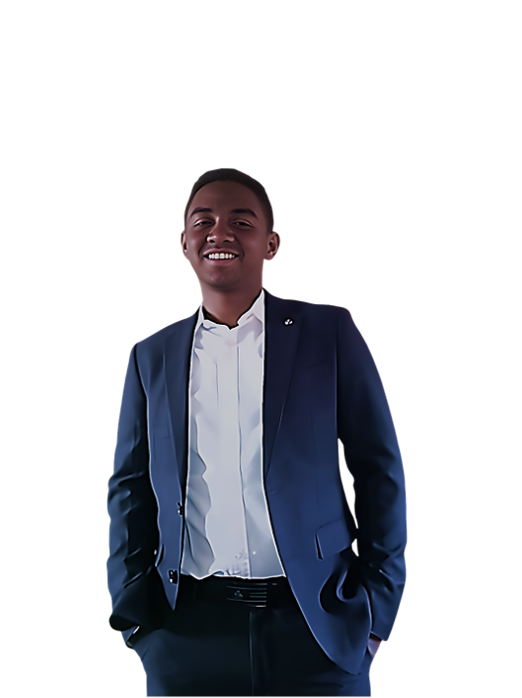
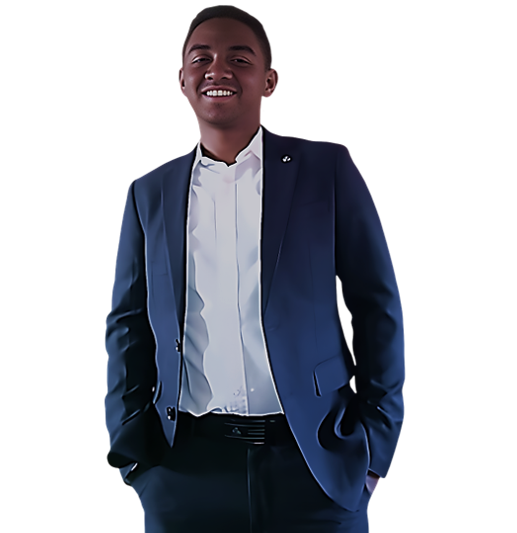
fix: make hero image and container responsive

Changed region(s): [[0.1857, 0.0, 0.8046, 1.0]]

diff --git a/css/portfolio.css b/css/portfolio.css
@@ -640,7 +640,6 @@ a:hover .icon__button {
 }
 .hero__image__container {
   position: relative;
-  height: 100vh;
   width: 100%;
 }
 .hero__image__container::before {
@@ -648,28 +647,25 @@ a:hover .icon__button {
   height: 28.5rem;
   width: 100%;
   position: absolute;
-  top: 50%;
+  bottom: 0;
   left: 50%;
-  transform: translate(-50%, -43.8%);
+  transform: translateX(-50%);
   border: solid rgba(0, 0, 255, 0.2) 2px;
   animation: shadow-apparition 0.7s ease-in 1.2s forwards;
 }
 .hero__image {
   width: 30rem !important;
-  position: absolute;
-  top: 50%;
+  position: relative;
+  bottom: 2px;
   left: 50%;
-  transform: translate(-48%, -60%) !important;
+  filter: brightness(0.9) contrast(1.1);
+  transform: translateX(-48%) !important;
 }
 @media only screen and (max-width: 405px) {
   .hero__image__container::before {
     content: "";
-    border: solid #0044ff 2px;
-    height: 50%;
+    height: 95%;
     width: 80%;
-    position: absolute;
-    bottom: 16%;
-    right: 2%;
   }
 }
 @keyframes shadow-apparition {

diff --git a/portfolio.html b/portfolio.html
@@ -76,7 +76,7 @@
         <div class="hero__slider owl-carousel">
             <div class="hero__item set-bg">
                 <div class="container">
-                    <div class="row">
+                    <div class="d-lg-flex justify-content-center align-items-center">
                         <div class="col-lg-6 hero__text__container">
                             <div class="hero__text">
                                 <h2 class="mb-3 hello-text">Hello !!</h2>

diff --git a/js/portfolio.js b/js/portfolio.js
@@ -135,6 +135,7 @@
                 loop: false,
                 dots: false,
                 mouseDrag: false,
+                touchDrag: false,
                 animateOut: '',
                 animateIn: '',
                 items: 1,

diff --git a/js/main.js b/js/main.js
@@ -598,7 +598,7 @@
         const modelViewer = $modelViewer[0];
 
         if (modelViewer) {
-            modelViewer.timeScale = 0.1;
+            modelViewer.timeScale = 0.9;
         }
     }
 
